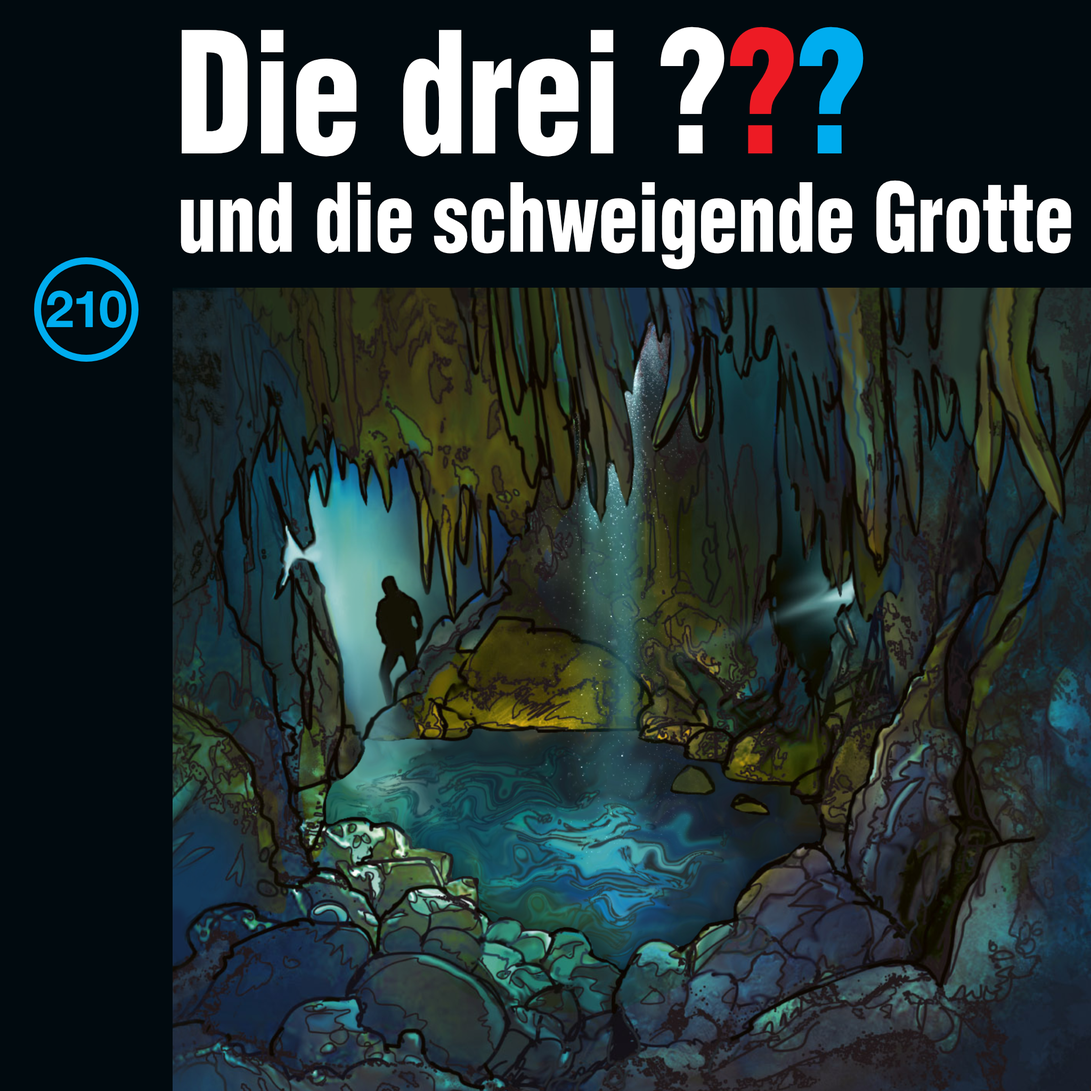
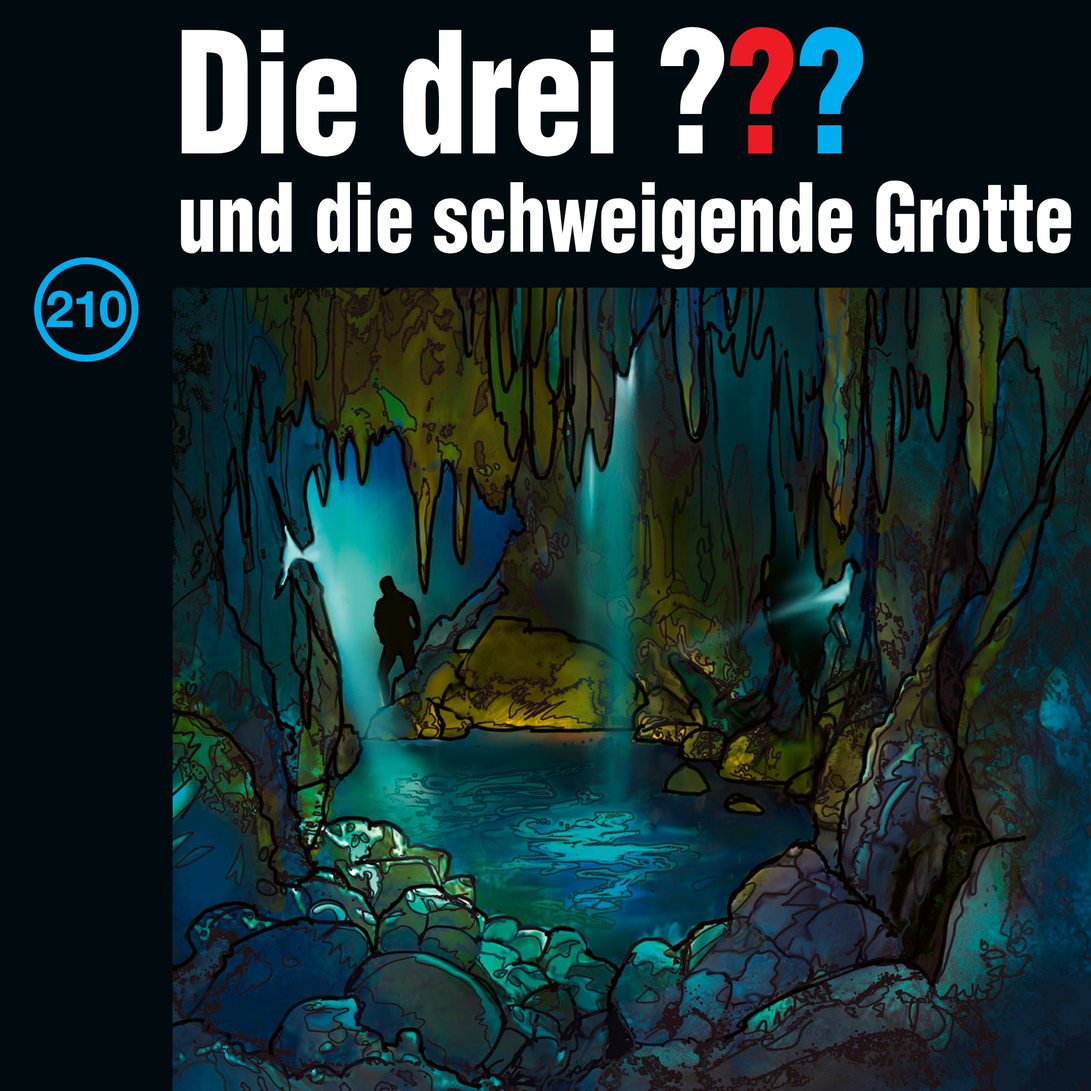
Fixed cover of 210

Changed region(s): [[0.1562, 0.25, 1.0, 1.0]]

diff --git a/web/index.html b/web/index.html
@@ -89,7 +89,7 @@
 	</ul>
 </section>
 
-<b>Letzte Aktualisierung:</b> 11.06.2021
+<b>Letzte Aktualisierung:</b> 17.07.2021
 
 
 <table class="datatable">
@@ -100,7 +100,7 @@
 	<td class="cell_data"><a href="data/Serie/210/ffmetadata.txt">FFmetadata</a></td>
 	<td class="cell_data"><a href="data/Serie/210/rip_log.txt">XLD Log</a></td>
 	<td class="cell_data"><a href="data/Serie/210/cover.png">Cover</a></td>
-	<td class="cell_data"><a href="https://is4-ssl.mzstatic.com/image/thumb/Video125/v4/4e/cd/21/4ecd2117-fb94-7922-50b8-589c757110ac/Job4c0011ca-62b7-4699-8cf0-38604544c0cd-114736460-PreviewImage_preview_image_nonvideo_sdr-Time1622648984231.png/3000x0w.png">Cover (iTunes)</a></td>
+	<td class="cell_data"><a href="https://is3-ssl.mzstatic.com/image/thumb/Music124/v4/2f/d3/3e/2fd33eab-8a83-4411-e794-7317cd06965d/886448719007.jpg/3000x0w.png">Cover (iTunes)</a></td>
 	<td class="cell_data"></td>
 </tr>
 <tr>
